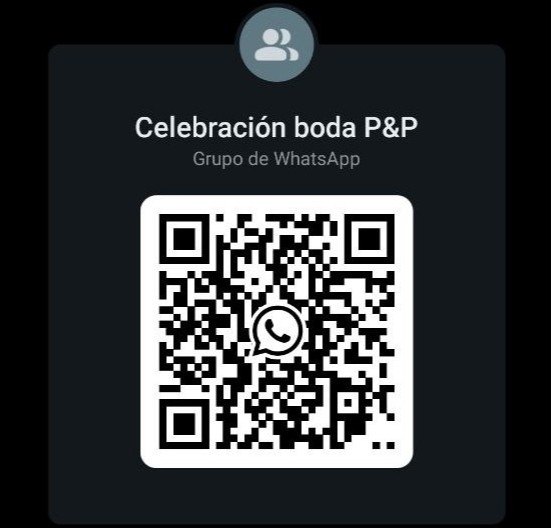
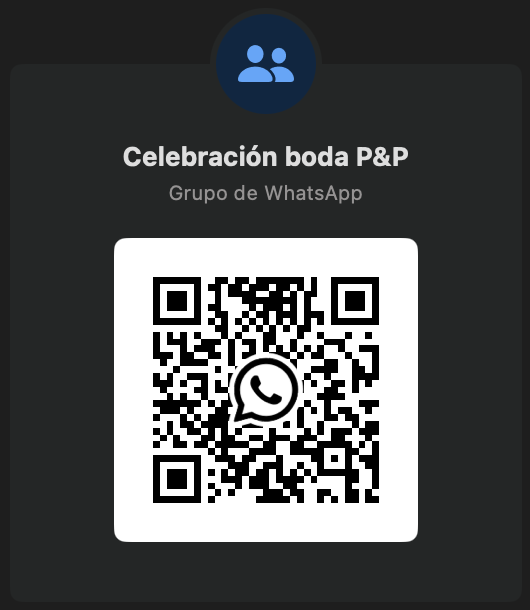
Cámbios sobre los vinculos al canal de whatsapp

diff --git a/index.html b/index.html
@@ -334,18 +334,20 @@
 				<div class="col-md-12 col-md-offset-0">
 					<ul class="timeline animate-box">
 						<li class="animate-box">
-							<div class="timeline-badge" style="background-image:url(images/personales/qr.jpg);"></div>
+							<div class="timeline-badge" style="background-image:url(images/personales/qr.jpg); background-position: center 70%;"></div>
 							<div class="timeline-panel">
 								<div class="timeline-heading">
-									<h3 class="timeline-title">Grupo de WhatsApp OPCIONAL</h3>
+									<h3 class="timeline-title">Comunidad de WhatsApp OPCIONAL</h3>
 								</div>
 								<div class="timeline-body">
 									<p>
 										No somos ultra mega fans de tener grupos de WhatsApp, pero sí que es cierto que para coordinar todo lo relacionado con la boda es lo más fácil.
-										<br>Así que, si quieres, puedes unirte al grupo de WhatsApp que hemos creado para la ocasión.
+										<br>Así que, si quieres, puedes unirte a la comunidad de WhatsApp que hemos creado para la ocasión.
+										<br>Ahí iremos poniendo información relevante a traves del canal de difusion, y podéis preguntar cualquier duda que tengáis por el chat general.
+										<br>También habra chats internos para organizar temas de transporte, alojamiento, compartir fotos bonitas, o cualquier otra cosa que se os ocurra, podeis crear los chats que querais.
 										<br>Si no quieres, no pasa nada, nos escribes directamente y ya 😉
-										<br><a href="https://chat.whatsapp.com/LWTruorAY9M9Crz7KqflLq?mode=ac_t" target="_blank">
-											Invitación por enlace
+										<br><a href="https://chat.whatsapp.com/Dre0RxSY0B1BilP0qSHhHd" target="_blank">
+											Invitación por enlace a la comunidad de WhatsApp
 										</a>
 									</p>
 								</div>
